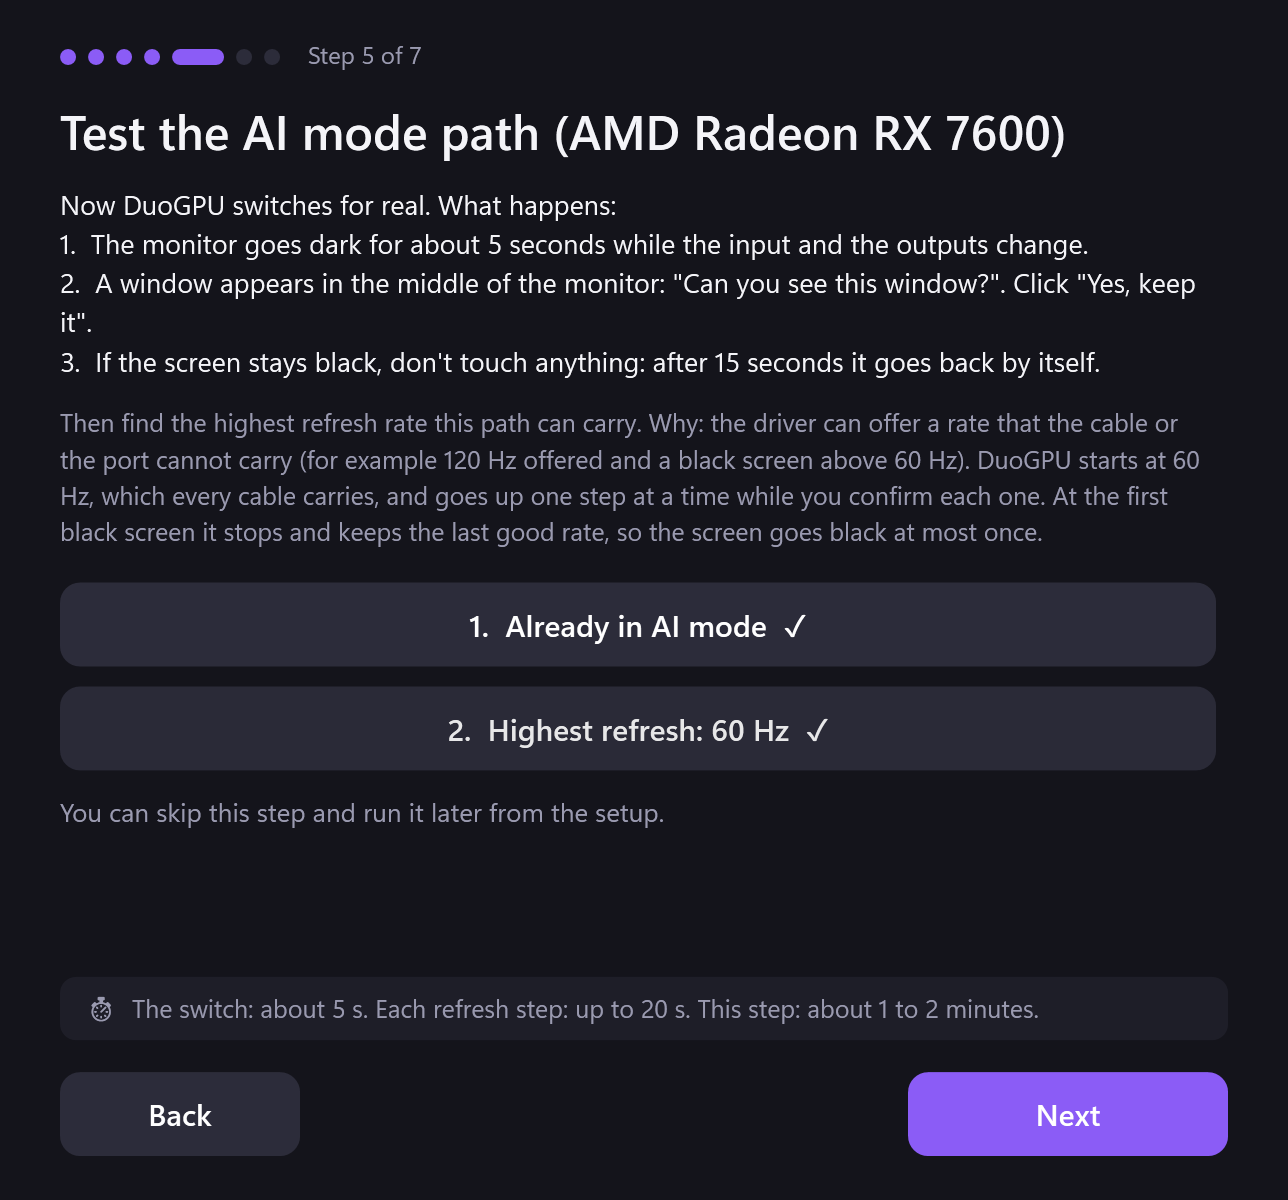
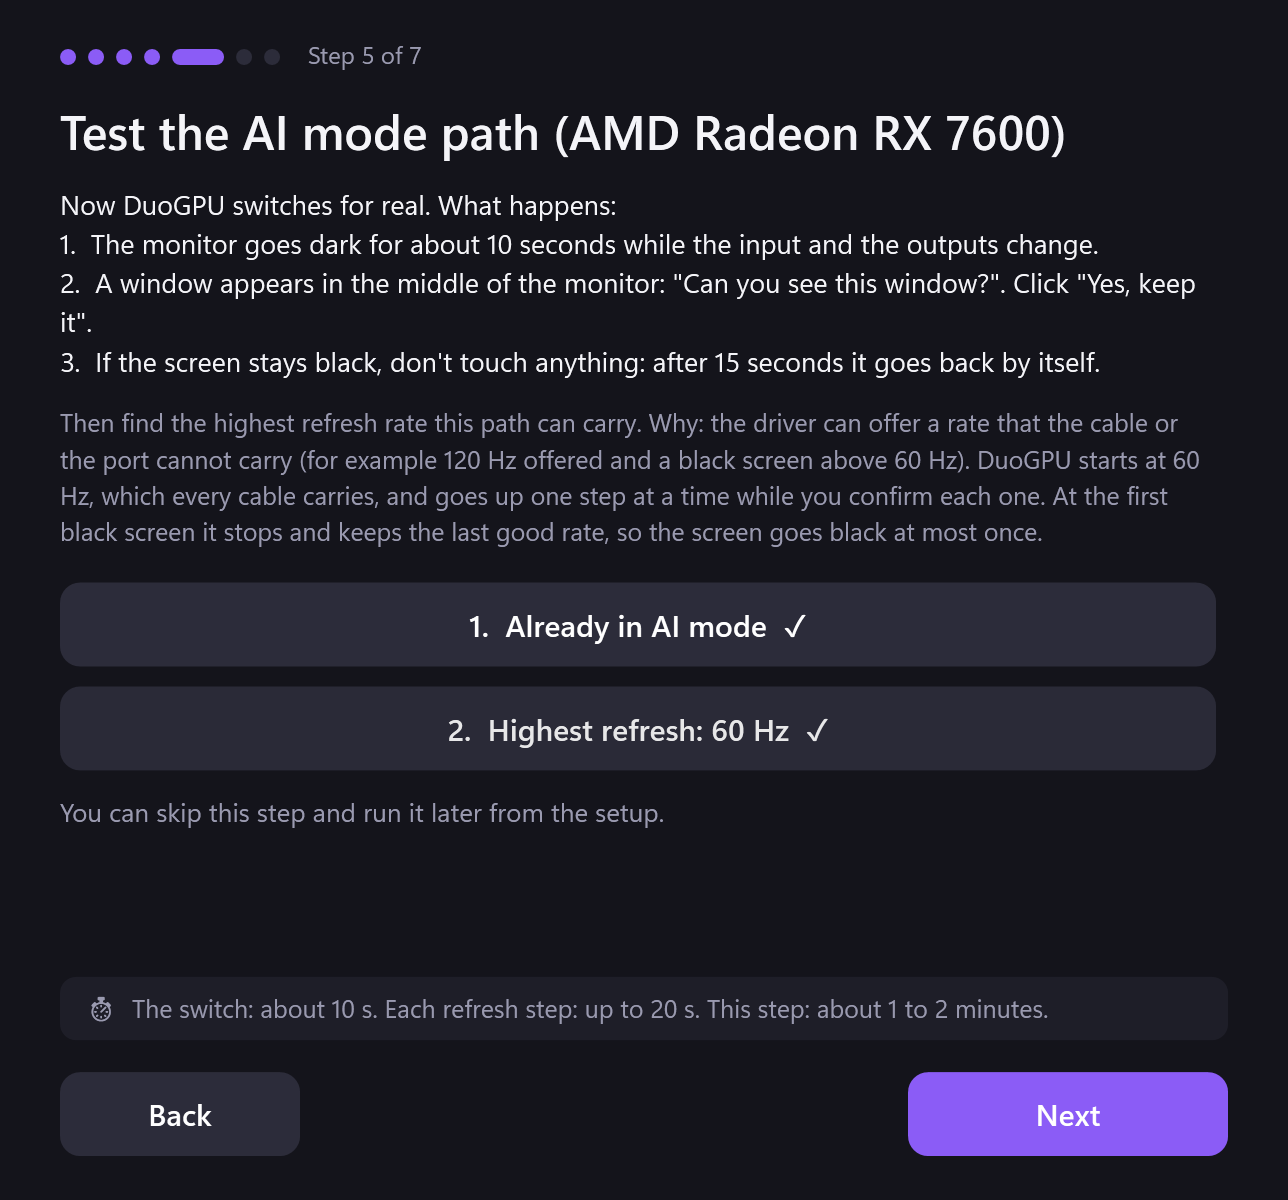
docs: the measured switch time and the hardware test
A switch takes about 10 s in each direction on the test PC (9.8 s and
9.9 s), not the 5 s estimated before. The README records the test.

Changed region(s): [[0.2484, 0.8325, 0.8075, 0.8633], [0.3727, 0.185, 0.8385, 0.2158]]

diff --git a/src/DuoGPU/UI/WizardStrings.cs b/src/DuoGPU/UI/WizardStrings.cs
@@ -75,13 +75,13 @@ public static partial class S
     public static string PathWhat => T(
         """
         Now DuoGPU switches for real. What happens:
-        1.  The monitor goes dark for about 5 seconds while the input and the outputs change.
+        1.  The monitor goes dark for about 10 seconds while the input and the outputs change.
         2.  A window appears in the middle of the monitor: "Can you see this window?". Click "Yes, keep it".
         3.  If the screen stays black, don't touch anything: after 15 seconds it goes back by itself.
         """,
         """
         Agora o DuoGPU troca de verdade. O que acontece:
-        1.  O monitor apaga por uns 5 segundos enquanto a entrada e as saídas mudam.
+        1.  O monitor apaga por uns 10 segundos enquanto a entrada e as saídas mudam.
         2.  Aparece no meio do monitor a janela "Você está vendo esta janela?". Clique em "Sim, manter".
         3.  Se a tela continuar preta, não mexa em nada: em 15 segundos ela volta sozinha.
         """);
@@ -89,8 +89,8 @@ public static partial class S
         "Then find the highest refresh rate this path can carry. Why: the driver can offer a rate that the cable or the port cannot carry (for example 120 Hz offered and a black screen above 60 Hz). DuoGPU starts at 60 Hz, which every cable carries, and goes up one step at a time while you confirm each one. At the first black screen it stops and keeps the last good rate, so the screen goes black at most once.",
         "Depois, ache o maior Hz que este caminho aguenta. Por quê: o driver pode oferecer um Hz que o cabo ou a porta não aguentam (por exemplo, 120 Hz oferecidos e tela preta acima de 60 Hz). O DuoGPU começa em 60 Hz, que todo cabo aguenta, e sobe um degrau por vez, com você confirmando cada um. Na primeira tela preta ele para e fica com o último Hz bom, então a tela fica preta no máximo uma vez.");
     public static string PathTime => T(
-        "The switch: about 5 s. Each refresh step: up to 20 s. This step: about 1 to 2 minutes.",
-        "A troca: uns 5 s. Cada degrau de Hz: até 20 s. Este passo: uns 1 a 2 minutos.");
+        "The switch: about 10 s. Each refresh step: up to 20 s. This step: about 1 to 2 minutes.",
+        "A troca: uns 10 s. Cada degrau de Hz: até 20 s. Este passo: uns 1 a 2 minutos.");
     public static string SwitchNow(Mode mode) => T($"1.  Switch to {ModeShort(mode)}", $"1.  Trocar para o {ModeShort(mode)}");
     public static string AlreadyIn(Mode mode) => T($"1.  Already in {ModeShort(mode)}  ✓", $"1.  Já está no {ModeShort(mode)}  ✓");
     public static string FindHz => T("2.  Find the highest refresh", "2.  Achar o maior Hz");
@@ -107,7 +107,7 @@ public static partial class S
         The DuoGPU icon lives in the tray, next to the clock (click ^ if it is hidden; drag it out to keep it visible):
         •  purple "AI" = AI mode   •  green gamepad = Game mode   •  amber "!" = something to fix
 
-        Click the icon for the panel: the mode, the free VRAM, the checks and the one button that switches. Right-click for the menu. Every switch takes about 5 seconds and always asks for your confirmation.
+        Click the icon for the panel: the mode, the free VRAM, the checks and the one button that switches. Right-click for the menu. Every switch takes about 10 seconds and always asks for your confirmation.
 
         You can open this setup again from the panel ("Setup…").
         """,
@@ -115,7 +115,7 @@ public static partial class S
         O ícone do DuoGPU fica na bandeja, perto do relógio (clique na setinha ^ se ele estiver escondido; arraste para fora para deixar à vista):
         •  "IA" roxo = Modo IA   •  controle verde = Modo Jogo   •  "!" âmbar = algo para arrumar
 
-        Clique no ícone para abrir o painel: o modo, a VRAM livre, as conferências e o botão único que troca. O botão direito abre o menu. Cada troca leva uns 5 segundos e sempre pede a sua confirmação.
+        Clique no ícone para abrir o painel: o modo, a VRAM livre, as conferências e o botão único que troca. O botão direito abre o menu. Cada troca leva uns 10 segundos e sempre pede a sua confirmação.
 
         Dá para abrir esta configuração de novo pelo painel ("Configurar…").
         """);

diff --git a/README.pt-BR.md b/README.pt-BR.md
@@ -69,7 +69,7 @@ escala, iniciar com o Windows, o idioma) e o teste do caminho do Modo Jogo.
 
 | Etapa | Tempo |
 |---|---|
-| Uma troca | uns 5 s |
+| Uma troca | uns 10 s (medido: 9,8 s e 9,9 s) |
 | Se ninguém confirmar (tela preta) | 15 s, e ele volta sozinho |
 | O teste de Hz de um caminho | uns 1 a 2 min (cada degrau até 20 s) |
 | A primeira configuração inteira | uns 3 a 5 min |
@@ -115,7 +115,7 @@ internet.
 - **O DDC/CI ligado** no menu do monitor (a maioria já vem com ele ligado). Sem ele, o DuoGPU funciona assim mesmo: ele
   pede para você apertar o botão de entrada do monitor.
 
-**Testado em:** Radeon RX 9070 XT + Radeon RX 7600, com um monitor DisplayPort de 5120×1440. Se funcionar (ou não) no
+**Testado em:** Radeon RX 9070 XT + Radeon RX 7600, com um monitor DisplayPort de 5120×1440: uma troca em cada sentido, confirmada na tela, uns 10 s cada (12/11/2026). Se funcionar (ou não) no
 seu hardware, [abra uma issue](https://github.com/ThalzeronLabs/duogpu/issues) com a saída do `DuoGPU.exe detect`: é
 o jeito mais rápido de aumentar a lista.
 

diff --git a/README.md b/README.md
@@ -69,7 +69,7 @@ Windows, language) and the test of the Game mode path.
 
 | Step | Time |
 |---|---|
-| One switch | about 5 s |
+| One switch | about 10 s (measured: 9.8 s and 9.9 s) |
 | If nobody confirms (black screen) | 15 s, then it goes back by itself |
 | The refresh test of one path | about 1 to 2 min (each step up to 20 s) |
 | The whole first setup | about 3 to 5 min |
@@ -116,7 +116,7 @@ network.
 - **DDC/CI turned on** in the monitor's menu (most monitors ship with it on). Without it DuoGPU still works: it asks
   you to press the monitor's input button.
 
-**Tested on:** Radeon RX 9070 XT + Radeon RX 7600 with a 5120×1440 DisplayPort monitor. If it works (or not) on
+**Tested on:** Radeon RX 9070 XT + Radeon RX 7600 with a 5120×1440 DisplayPort monitor: a switch in each direction, confirmed on screen, about 10 s each (12 Nov 2026). If it works (or not) on
 your hardware, please [open an issue](https://github.com/ThalzeronLabs/duogpu/issues) with the output of
 `DuoGPU.exe detect`: it is the fastest way to grow the list.
 

diff --git a/docs/how-it-works.pt-BR.md b/docs/how-it-works.pt-BR.md
@@ -88,8 +88,8 @@ O código das telas precisa de monitores e placas de verdade, então ele é test
 
 | Etapa | Tempo | De onde vem |
 |---|---|---|
-| Uma troca (entrada + saídas + escala) | uns 5 s | medido no meu PC |
-| A janela de confirmação, se ninguém clicar | 15 s, e a troca é desfeita (uns 5 s a mais) | a configuração `ConfirmSeconds` |
+| Uma troca (entrada + saídas + escala) | uns 10 s (9,8 s e 9,9 s) | medido com o DuoGPU 0.1.0 no meu PC, nos dois sentidos, em 12/11/2026 |
+| A janela de confirmação, se ninguém clicar | 15 s, e a troca é desfeita (uns 10 s a mais) | a configuração `ConfirmSeconds` |
 | Um degrau de Hz na configuração | uns 2 s se você confirmar rápido, até uns 20 s no degrau que apaga | 1,5 s para aplicar + o seu clique ou os 15 s de espera |
 | O teste de Hz de um caminho | uns 1 a 2 minutos | estimativa: 2 a 4 degraus por caminho |
 | A configuração guiada inteira | uns 3 a 5 minutos | estimativa |

diff --git a/docs/how-it-works.md b/docs/how-it-works.md
@@ -88,8 +88,8 @@ README says which hardware).
 
 | Step | Time | Source |
 |---|---|---|
-| One switch (input + outputs + scale) | about 5 s | measured on my PC |
-| The confirmation window, if nobody clicks | 15 s, then the switch is undone (about 5 s more) | the setting `ConfirmSeconds` |
+| One switch (input + outputs + scale) | about 10 s (9.8 s and 9.9 s) | measured with DuoGPU 0.1.0 on my PC, both directions, 12 Nov 2026 |
+| The confirmation window, if nobody clicks | 15 s, then the switch is undone (about 10 s more) | the setting `ConfirmSeconds` |
 | One refresh step during the setup | about 2 s if you confirm quickly, up to about 20 s for the step that goes black | 1.5 s to apply + your click or the 15 s timeout |
 | The refresh test of one path | about 1 to 2 minutes | estimate: 2 to 4 steps per path |
 | The whole guided setup | about 3 to 5 minutes | estimate |
